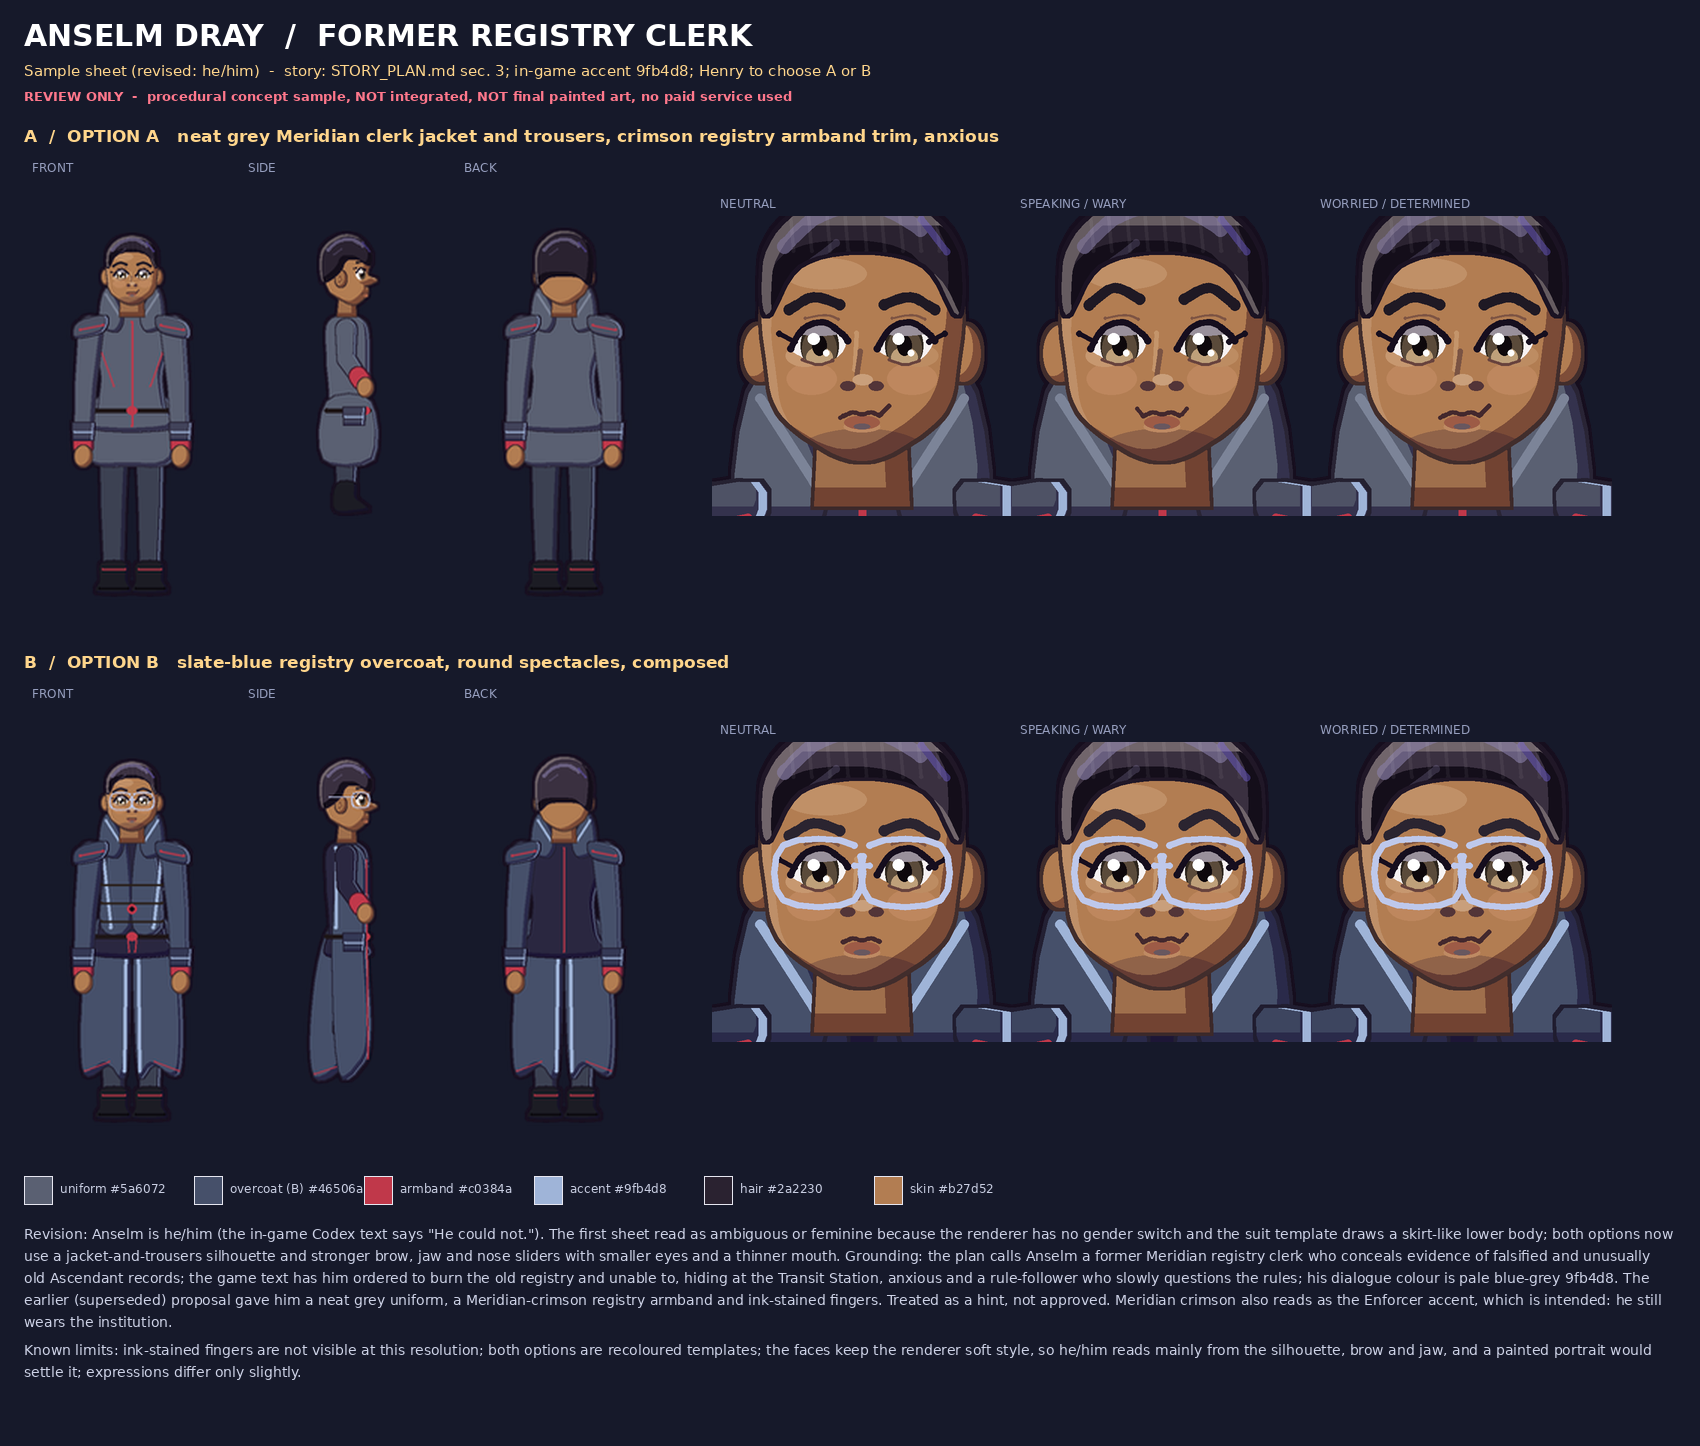
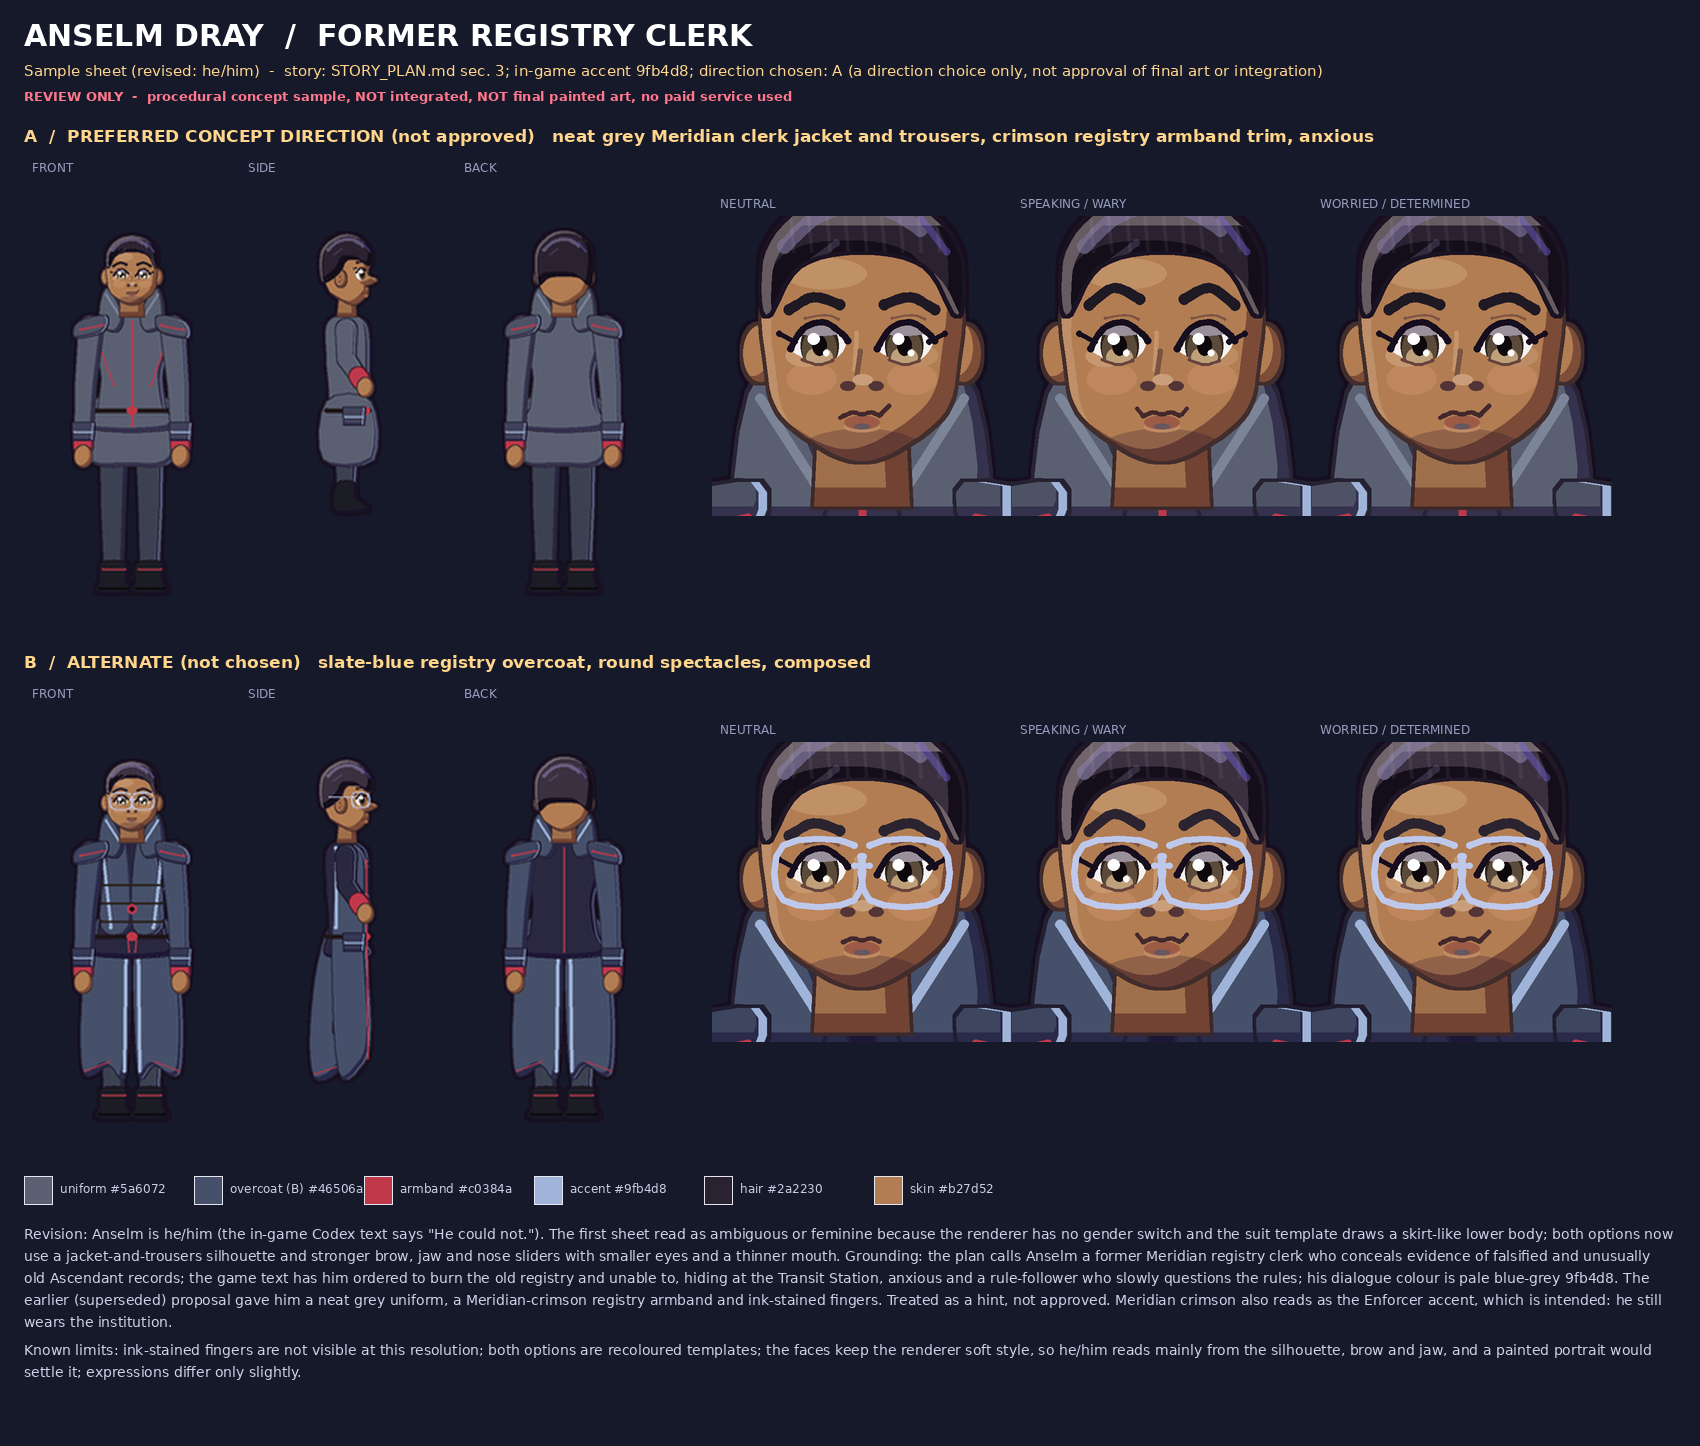
Episode 3 M5: record Anselm A as preferred concept direction (direction choice only); device-pass run sheet and local QA server
- art samples relabelled: Teo A, Anselm A, Warden A preferred concept directions, none approved; README/APPROVAL record that this is not approval of final art or integration
- docs/episodes/episode-03/DEVICE_TEST_SHEET.md and tools/qa/serve_qa_local.sh: the next review checkpoint (first real-device evidence); QA build is local-only
- Mission 1-3 stays unplayable in production; no merge, no deploy

Claude-Session: https://claude.ai/code/session_01NJ4pFBhCm3yWuxxGGAHNwJ

diff --git a/tools/art25d/ep3_samples.py b/tools/art25d/ep3_samples.py
@@ -281,9 +281,9 @@ def main():
                 ['Grounding: the plan calls Teo the Relay Keeper who understands the abandoned network, initially cautious, eventually an ally; the game text has him keeping the network alive from a workshop behind the alleyways and wary of anyone who looks like Meridian; his dialogue colour is amber e8b878. The earlier (superseded) Episode 3 proposal described him as tall and weathered, in a long coat with brass lantern fittings, round amber-lens spectacles, braided white hair and a rail-spike cane. Those details are a hint, not an approved design; A leans on them, B tests a plainer work look.',
                  'Palette follows the approved style: near-black base, one saturated accent (amber/brass), small luminous areas. Known limits of this renderer: spectacle lenses are drawn pale (the amber tint is not rendered yet), hands are mitten-simple, and expressions differ only slightly. A hand-painted portrait set would be needed for final art (see VISUAL_DIRECTION_PROPOSAL.md option D).'],
                 [('base', '3a2c28'), ('coat', '2f3a3c'), ('brass', 'c89a4a'), ('accent', 'e8b878'), ('hair', 'ece9f2'), ('skin', '70482f')], 'teo_marrow_samples.png')
-    ans = sheet('ANSELM DRAY  /  FORMER REGISTRY CLERK', 'Sample sheet (revised: he/him)  -  story: STORY_PLAN.md sec. 3; in-game accent 9fb4d8; Henry to choose A or B',
-                [('A  /  OPTION A   neat grey Meridian clerk jacket and trousers, crimson registry armband trim, anxious', human_panel(ANS_A, 'A')),
-                 ('B  /  OPTION B   slate-blue registry overcoat, round spectacles, composed', human_panel(ANS_B, 'B'))],
+    ans = sheet('ANSELM DRAY  /  FORMER REGISTRY CLERK', 'Sample sheet (revised: he/him)  -  story: STORY_PLAN.md sec. 3; in-game accent 9fb4d8; direction chosen: A (a direction choice only, not approval of final art or integration)',
+                [('A  /  PREFERRED CONCEPT DIRECTION (not approved)   neat grey Meridian clerk jacket and trousers, crimson registry armband trim, anxious', human_panel(ANS_A, 'A')),
+                 ('B  /  ALTERNATE (not chosen)   slate-blue registry overcoat, round spectacles, composed', human_panel(ANS_B, 'B'))],
                 ['Revision: Anselm is he/him (the in-game Codex text says "He could not."). The first sheet read as ambiguous or feminine because the renderer has no gender switch and the suit template draws a skirt-like lower body; both options now use a jacket-and-trousers silhouette and stronger brow, jaw and nose sliders with smaller eyes and a thinner mouth. Grounding: the plan calls Anselm a former Meridian registry clerk who conceals evidence of falsified and unusually old Ascendant records; the game text has him ordered to burn the old registry and unable to, hiding at the Transit Station, anxious and a rule-follower who slowly questions the rules; his dialogue colour is pale blue-grey 9fb4d8. The earlier (superseded) proposal gave him a neat grey uniform, a Meridian-crimson registry armband and ink-stained fingers. Treated as a hint, not approved. Meridian crimson also reads as the Enforcer accent, which is intended: he still wears the institution.',
                  'Known limits: ink-stained fingers are not visible at this resolution; both options are recoloured templates; the faces keep the renderer soft style, so he/him reads mainly from the silhouette, brow and jaw, and a painted portrait would settle it; expressions differ only slightly.'],
                 [('uniform', '5a6072'), ('overcoat (B)', '46506a'), ('armband', 'c0384a'), ('accent', '9fb4d8'), ('hair', '2a2230'), ('skin', 'b27d52')], 'anselm_dray_samples.png')

diff --git a/docs/episodes/episode-03/DEVICE_TEST_SHEET.md b/docs/episodes/episode-03/DEVICE_TEST_SHEET.md
@@ -1,0 +1,22 @@
+# Episode 3 device pass: the run sheet (next concrete review checkpoint)
+
+Nothing in this sheet has been run. It exists so that someone with a phone or tablet can produce the first real-device evidence for Episode 3 in about 30-40 minutes. It complements `docs/DEVICE_TEST_CHECKLIST.md` (Android/mobile) and `AUDIO_AND_DEVICE_GAPS.md` (why each item is here). The QA build unlocks Episode 3 and is **for local testing only: do not publish, deploy or share it beyond your own network.** Production stays locked.
+
+## Setup (on a computer with the repo, Godot 4.4.1 and the Web export templates)
+1. `tools/qa/serve_qa_local.sh --build` (exports the "Web QA" preset to `build/web_qa` and serves it on port 8801 for your network). Without `--build` it serves the last export.
+2. On the phone (same Wi-Fi) open `http://<computer-LAN-IP>:8801/index.html`. The footer must read "QA BUILD / NOT FOR RELEASE". On first launch choose a name, close the mission card, tap MISSIONS, then **QA: PLAY EPISODE 3**.
+3. Record: device model, OS and browser version, screen size, whether the page was added to the home screen, battery level.
+
+## What to record (pass / fail / note)
+1. **Boot and load**: seconds to the home screen; any blank screen or crash; the browser's memory warning, if any.
+2. **Touch targets** (the biggest known risk): the relay-map puzzle (tap-only tiles, about 32-34 CSS px at phone size), the rail lock, the power board, the memory cards, HINT/BACK and CHECK buttons. Note every mistap and every control that is hard to hit with a thumb.
+3. **Walk, scan, channel**: joystick walking; hold ACT on a scan (about 1.4 s) and on the three arena mechanisms; **joystick and ACT used together** (hold a mechanism, slide to dodge, hold again).
+4. **Warden**: can the telegraphs be read and dodged on this screen and frame rate? Does the checkpoint behave after a fail? Note any frame drops during the fight.
+5. **Frame rate and heat**: rough feel in the market, the tower floors and the arena; any stutter; device warm after 15 minutes. (If you can, open the browser's performance overlay or remote-debug from a desktop and note numbers.)
+6. **Save and resume** (new in M5): play to the workshop, wait for the top "SAVING..." mark to clear, switch app or lock the screen for a minute, come back; then close the tab, reopen the URL and re-enter with the QA button: same zone, same clues? Then repeat while the "SAVING..." mark is showing (close the tab immediately after a scan). Note whether the clue survived.
+7. **Safe areas and orientation**: notch or gesture bar overlaps, rotating the phone mid-puzzle, back button behaviour, incoming call or notification during a cinematic.
+8. **Audio**: Episode 3 has almost no sound of its own (see `AUDIO_AND_DEVICE_GAPS.md`); only note whether the existing city ambience and footsteps start after the first tap and whether the Settings sound switch mutes them.
+9. **Finish**: rewards (+180 XP / +340 gold on a fresh QA save), NEXT EPISODE teaser, return to home.
+
+## Where the results go
+Add them under a new heading in `IMPLEMENTATION.md`, or send them to the next session; a failing item becomes a fix before any release review. Until a real device has run this, no mobile, GPU or touch-accuracy claim for Episode 3 is made.

diff --git a/docs/episodes/episode-03/art_samples/README.md b/docs/episodes/episode-03/art_samples/README.md
@@ -1,6 +1,6 @@
 # Episode 3 character samples (REVIEW ONLY)
 
-Teo Marrow, Anselm Dray (he/him) and the Relay Warden, two directions each. **Teo A and the Warden A are preferred concept directions only; nothing is approved.** Anselm's sheet was revised for he/him (see below) and still needs your choice of A or B. **Nothing here is imported into the game, no batch has been made, and no paid service was used.** The directory has a `.gdignore`, so Godot does not import these files, and `docs/*` is excluded from every export.
+Teo Marrow, Anselm Dray (he/him) and the Relay Warden, two directions each. **Teo A, Anselm A and the Warden A are Henry's preferred concept directions. That is a direction choice only: nothing here is approved as final art, and nothing is approved for integration.** **Nothing here is imported into the game, no batch has been made, and no paid service was used.** The directory has a `.gdignore`, so Godot does not import these files, and `docs/*` is excluded from every export.
 
 - `overview.png`: all three characters, both directions, one page.
 - `teo_marrow_samples.png`, `anselm_dray_samples.png`: front/side/back plus three portrait expressions per direction, palette strip, story grounding.
@@ -18,5 +18,7 @@ Teo's spectacle lenses are not amber-tinted (the renderer draws pale frames only
 ## Anselm revision (he/him)
 The in-game Codex says "He could not." The first sheet read as ambiguous or feminine because the renderer has no gender setting and the suit template draws a skirt-like lower body. Both options now use a jacket-and-trousers or overcoat silhouette with stronger brow, jaw and nose sliders, smaller eyes and a thinner mouth. The faces still keep this renderer's soft style; a painted portrait would settle it. (`STORY_PLAN.md` itself states no pronouns for Anselm that I could find; the Codex text is the pronoun source I used.)
 
-## Decision needed from Henry
-Only this: choose Anselm A or B (or ask for changes). Teo A and the Warden A stay preferred directions until you approve them. How final art is produced (these procedural samples, an artist, or a generator you approve and pay for; CLAUDE.md requires your explicit approval for paid art) is a later call; none is started. No integration, no sprite sets, no batch.
+## Direction record
+- Teo A, Anselm A (chosen after the he/him revision) and Warden A are the preferred concept directions; the B options are not chosen.
+- Not recorded as approved: final art, sprite sets, portraits, integration into the game, a production method, or a batch. Those each need a separate go-ahead from Henry.
+- Open (not a decision for now): how final art would be produced (these procedural samples, an artist, or a generator Henry approves and pays for; CLAUDE.md requires explicit approval for paid art). None is started.

diff --git a/docs/episodes/episode-03/IMPLEMENTATION.md b/docs/episodes/episode-03/IMPLEMENTATION.md
@@ -235,3 +235,8 @@ Owner sign-off (recorded in `APPROVAL.md`): M4 approved with two opening edits (
 - **Reward assessment**: `ECONOMY_ASSESSMENT.md` and `tests/test_economy_ep123.gd` (12 checks). Result: the provisional values continue the Episode 1-2 curve; no change recommended; final sign-off needs human timing data and a gold sink. Notable finding: on the intended path Episode 3 does not itself level the player up (185 of 230 XP at level 3), and its replay costs 0 energy while 1-1/1-2 replays cost 6.
 - **Audio and device/GPU gaps**: `AUDIO_AND_DEVICE_GAPS.md` (inventory of the existing synthesized sounds, the Episode 3 cue gaps, what was never tested, computed touch-target sizes: the relay-map tiles are about 32-34 CSS px at the small viewports and have no button alternative).
 - **Reruns on this commit**: full suite 36 test scripts + 5 Python scripts, 0 failing; release-gate guard 16 checks pass; production export has no packed QA hook; production browser lock check passes; production save regression at 1280x720, 844x390 and 667x375: 0 failures, 12 checks each. One earlier production run failed at P3 because the unhooked, open-loop walk to Mira did not reach her (a fixture flake before any save check, not a save failure); the walk now searches left and right and the three sizes then passed. No game code changed in this round.
+
+
+## M5 review state (from d725317)
+- **Direction record**: Teo A, Anselm A (chosen after the he/him revision) and Warden A are Henry's preferred concept directions. Direction choice only: not approval of final art, sprite sets, portraits, integration, a production method or a batch (see `art_samples/README.md` and `APPROVAL.md`). The B options were not chosen.
+- **Next concrete review checkpoint**: a real-device pass using `DEVICE_TEST_SHEET.md` and `tools/qa/serve_qa_local.sh` (serves the QA build to a phone on your own network; never publish it). It is the first evidence that can move the remaining M5 gaps (touch accuracy on the relay-map tiles, joystick plus ACT, frame rate, real-browser save latency, audio unlock). Everything else remaining in M5 (final art, audio, economy sign-off, the release review that makes 1-3 playable) is waiting on Henry's decisions or on that evidence.

diff --git a/docs/episodes/episode-03/APPROVAL.md b/docs/episodes/episode-03/APPROVAL.md
@@ -19,3 +19,4 @@
 - **M5 request recorded (owner message after d40c9fb):** add a separate QA-only Web export flavor (done: preset "Web QA", never published, not selectable by the release workflow); play Episode 3 end to end in Chromium (done, see IMPLEMENTATION.md); keep 1-3 unplayable in production; no art batches before sample approval; no merge to `main`; no deploy.
 - **Owner request after a82d2f2:** make browser saves report or guarantee completion before the game says "saved" (done, see IMPLEMENTATION.md), add the immediate-reload Chromium regression and test production and QA at all three sizes (done), then prepare **review-only** Warden/Teo/Anselm art samples; do not integrate them or make a full batch before Henry approves the samples. **Samples are awaiting Henry's approval** (`art_samples/README.md`). No paid art service was used (CLAUDE.md requires the owner's explicit approval for that).
 - **Owner direction after 895864b:** Teo A and Warden A are preferred concept directions only (not approved); Anselm's sheet revised for he/him before asking Henry to choose (done); finish the safe M5 review work (reward assessment, audio and device/GPU gaps, reruns). Still not authorized: merging to `main`, deploying, integrating art, commissioning anything, making 1-3 playable in production.
+- **Direction choice recorded (owner message after d725317):** Anselm option A is the preferred concept direction, alongside Teo A and Warden A. **A direction choice only. Not approval of final art, sprite sets, portraits, integration, a production method or a batch.** Still not authorized: merging to `main`, deploying, integrating art, commissioning anything, making 1-3 playable in production.
